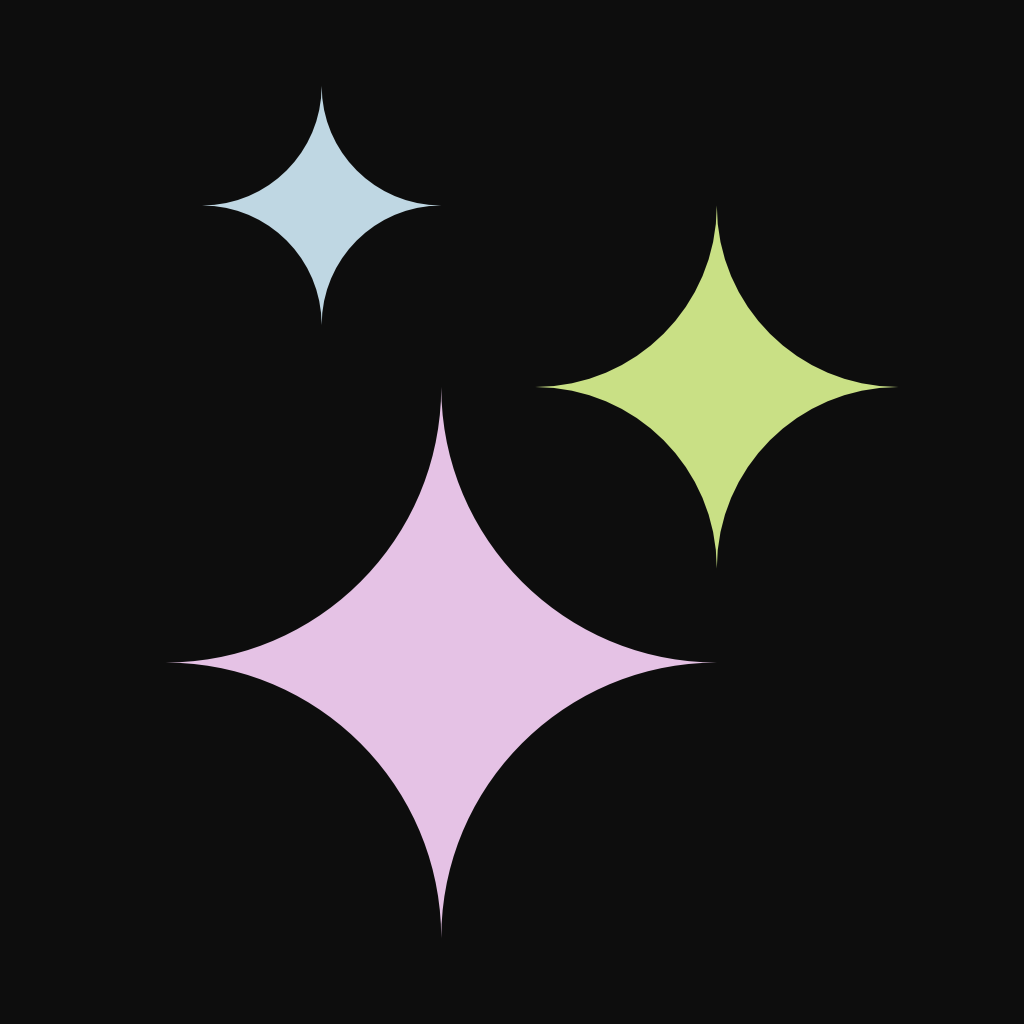
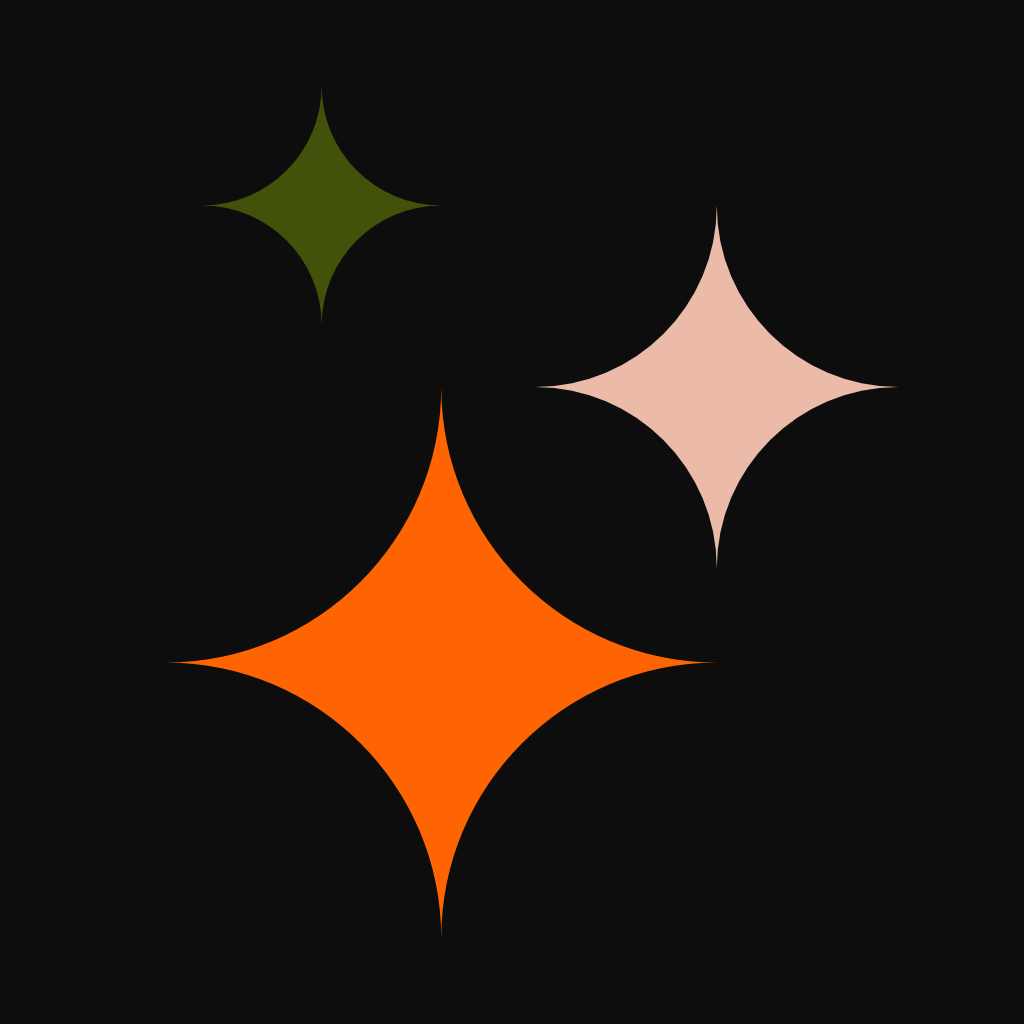
Add files via upload

Changed region(s): [[0.1875, 0.4062, 0.6875, 0.9062], [0.5312, 0.2188, 0.8438, 0.5312], [0.2188, 0.0938, 0.4062, 0.3125]]

diff --git a/index.html b/index.html
@@ -3768,32 +3768,29 @@ window.CARDS_DATA = {
 (function () {
   "use strict";
 
-  // Category → color theme. 14 pastel tiles matching the seven image pairs,
-  // each pair sharing a dark-tinted text colour in the same hue family:
-  //   pink+peach     / burnt brown     (row 1)
-  //   yellow+lime    / dark olive      (row 2)
-  //   mint+light blue/ dark teal       (row 3)
-  //   lilac+dusty pk / dark wine       (row 4)
-  //   periwinkle+lav / dark navy       (row 5)
-  //   grey+grey      / charcoal        (row 6)
-  //   pale grn+p.mnt / dark forest     (row 7)
-  // Arranged so every pair's two tiles, and every family's cousin hues, are
-  // non-adjacent in the alphabetical 2×7 grid.
+  // Category → color theme. A bolder 14-tile palette — mixes saturated brights
+  // (orange, sky, coral), deep darks (teal, navy, brick), muted mediums
+  // (sage, amber, slate), and soft pastels (peach, mint, blue-grey).
+  //   5 blue-ish tiles: dark teal / slate / blue-grey / sky / dark navy
+  //   5 warm tiles:     orange / pale peach / coral / amber / dark brick
+  //   4 green tiles:    sage / pale mint / dark olive / sage-mint-grey
+  // Arranged alphabetically so no two same-family tiles end up neighbours,
+  // and brightness alternates so no row is entirely dark or entirely light.
   const THEMES = {
-    "Brand Strategy":        { bg: "#C7DC7A", fg: "#2A2B0D" }, // lime
-    "Business Design":       { bg: "#C9C9C9", fg: "#333333" }, // grey #1
-    "Campaign":              { bg: "#BED6E1", fg: "#0F3239" }, // light blue
-    "Conversion":            { bg: "#CDE0BD", fg: "#102D1E" }, // pale green
-    "Graphic":               { bg: "#D4C670", fg: "#2A2B0D" }, // yellow
-    "Human-Centric":         { bg: "#DFC6DB", fg: "#3E0C2A" }, // lilac
-    "Innovation":            { bg: "#EACFD0", fg: "#411008" }, // pink
-    "Machine Learning":      { bg: "#C0E1D6", fg: "#0F3239" }, // mint
-    "Naming":                { bg: "#C9CDDE", fg: "#1C1C4D" }, // periwinkle
-    "Planet-Centric":        { bg: "#E6CCB2", fg: "#411008" }, // peach
-    "Serendipity":           { bg: "#BEDECA", fg: "#102D1E" }, // pale mint
-    "Service Design":        { bg: "#D6CBDE", fg: "#1C1C4D" }, // lavender
-    "Social Media Strategy": { bg: "#E0C7D0", fg: "#3E0C2A" }, // dusty pink
-    "Storytelling":          { bg: "#C9C9C9", fg: "#333333" }  // grey #2
+    "Brand Strategy":        { bg: "#8BA167", fg: "#3D4B12" }, // sage green
+    "Business Design":       { bg: "#A42C23", fg: "#F5A5A1" }, // dark brick
+    "Campaign":              { bg: "#EBC5B6", fg: "#AB6F74" }, // pale peach
+    "Conversion":            { bg: "#5EA3E0", fg: "#1C547A" }, // sky blue
+    "Graphic":               { bg: "#4C5476", fg: "#9EC4DC" }, // slate blue
+    "Human-Centric":         { bg: "#A0BEA0", fg: "#3D5F41" }, // sage-mint-grey
+    "Innovation":            { bg: "#F1670A", fg: "#7A2204" }, // vivid orange
+    "Machine Learning":      { bg: "#0E2863", fg: "#7FAFD1" }, // dark navy
+    "Naming":                { bg: "#B0D3BC", fg: "#456647" }, // pale mint
+    "Planet-Centric":        { bg: "#E58975", fg: "#8A223E" }, // coral
+    "Serendipity":           { bg: "#BBC2CC", fg: "#6A737D" }, // light blue-grey
+    "Service Design":        { bg: "#474F18", fg: "#A2B07D" }, // dark olive
+    "Social Media Strategy": { bg: "#D9A541", fg: "#6A3904" }, // amber
+    "Storytelling":          { bg: "#0F3937", fg: "#83A598" }  // dark teal
   };
   const DEFAULT_THEME = { bg: "#eeeeee", fg: "#222222" };
 